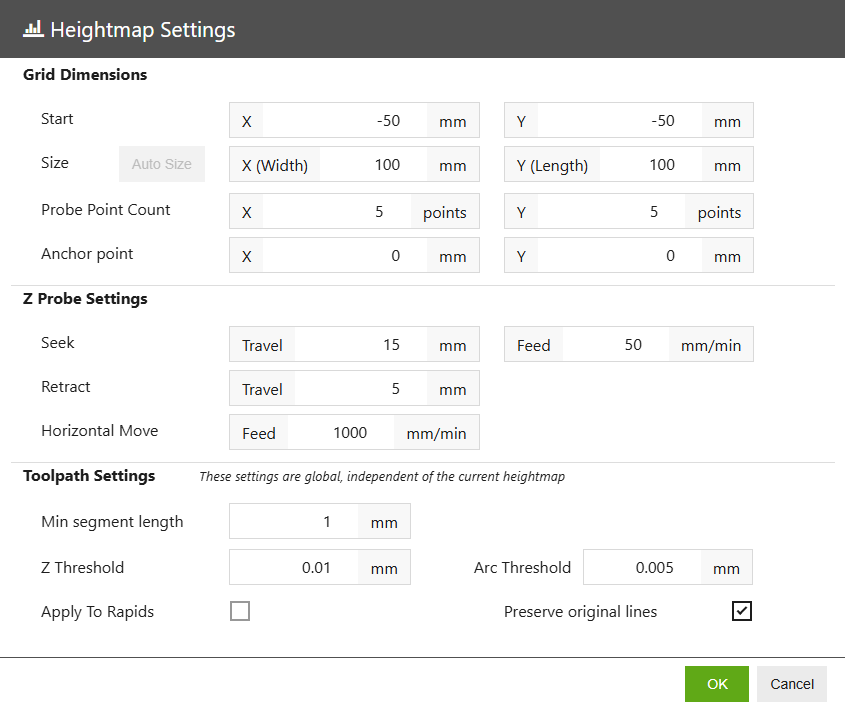
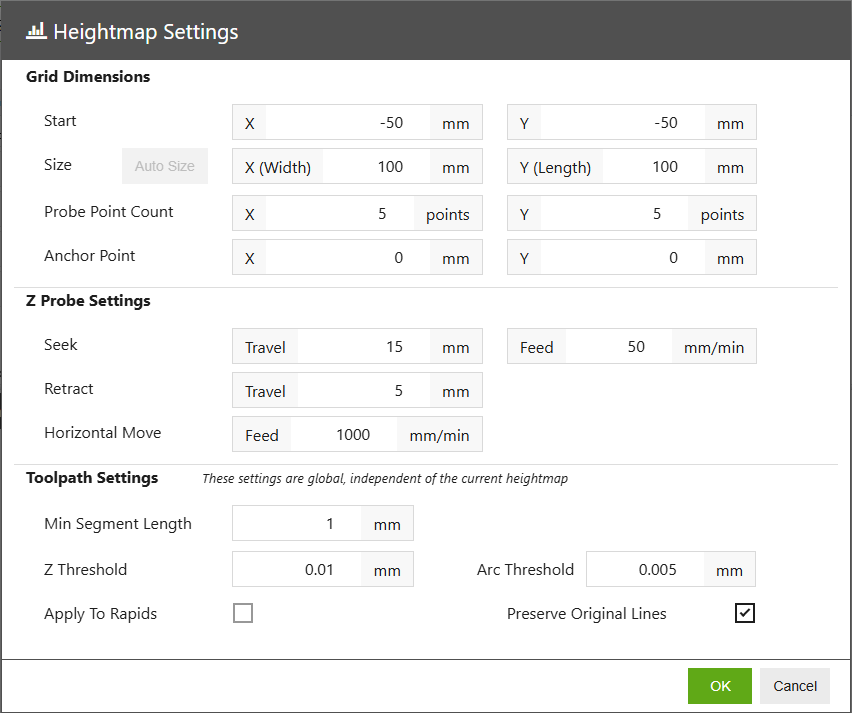
Update heightmap docs

diff --git a/app/wizards/heightmap/heightmap.js b/app/wizards/heightmap/heightmap.js
@@ -99,7 +99,7 @@ const heightmapSettingsDlg = `
 
 <div class="row mb-3">
   <label class="cell-sm-3 pt-1" style="padding-left:30px;" title="The anchor point is the location where the initial Z0 measurement will be taken.
-It has to match the Z0 of the G-code.">Anchor point</label>
+It has to match the Z0 of the G-code.">Anchor Point</label>
   <div class="cell-sm-4">
     <input id="heightmapAX" type="number" style="text-align:right;" data-role="input" data-prepend="X" data-append="mm" data-clear-button="false" data-editable="true"  onchange="heightmapSettingChange()"/>
   </div>
@@ -147,7 +147,7 @@ Smaller numbers will produce more accurate results, but will generate larger and
 </div>
 
 <div class="row mb-2">
-  <label class="cell-sm-3" style="padding-top:6px; padding-left:30px;" title="Minimum segment length for linear and arc segments">Min segment length</label>
+  <label class="cell-sm-3" style="padding-top:6px; padding-left:30px;" title="Minimum segment length for linear and arc segments">Min Segment Length</label>
   <div class="cell-sm-3">
     <input id="heightmapMinLength" type="number" style="text-align:right;" data-role="input" data-append="mm" data-clear-button="false" data-editable="true" />
   </div>
@@ -171,7 +171,7 @@ This could be useful for very uneven heightmaps.">Apply To Rapids</label>
     <input id="heightmapRapids" type="checkbox" data-role="checkbox" data-style="2"/>
   </div>
   <label class="cell-sm-3" style="margin-bottom:0; padding-top:6px;" title="When this is checked, the original G-code lines will be preserved as comments and the changes can be undone.
-You can uncheck it for large files to reduce the final size.">Preserve original lines</label>
+You can uncheck it for large files to reduce the final size.">Preserve Original Lines</label>
   <div class="cell-sm-1" style="padding-left:30px;">
     <input id="heightmapAllowRevert" type="checkbox" data-role="checkbox" data-style="2"/>
   </div>

diff --git a/UsefulMacros/Heightmap.js b/UsefulMacros/Heightmap.js
@@ -147,7 +147,7 @@ const g_HeightmapSettingsDlg = `
 
 <div class="row mb-3">
   <label class="cell-sm-3 pt-1" style="padding-left:30px;" title="The anchor point is the location where the initial Z0 measurement will be taken.
-It has to match the Z0 of the G-code.">Anchor point</label>
+It has to match the Z0 of the G-code.">Anchor Point</label>
   <div class="cell-sm-4">
     <input id="heightmapAX" type="number" style="text-align:right;" data-role="input" data-prepend="X" data-append="mm" data-clear-button="false" data-editable="true"  onchange="OnSettingChange()"/>
   </div>
@@ -195,7 +195,7 @@ Smaller numbers will produce more accurate results, but will generate larger and
 </div>
 
 <div class="row mb-2">
-  <label class="cell-sm-3" style="padding-top:6px; padding-left:30px;" title="Minimum segment length for linear and arc segments">Min segment length</label>
+  <label class="cell-sm-3" style="padding-top:6px; padding-left:30px;" title="Minimum segment length for linear and arc segments">Min Segment Length</label>
   <div class="cell-sm-3">
     <input id="heightmapMinLength" type="number" style="text-align:right;" data-role="input" data-append="mm" data-clear-button="false" data-editable="true" />
   </div>
@@ -219,7 +219,7 @@ This could be useful for very uneven heightmaps.">Apply To Rapids</label>
     <input id="heightmapRapids" type="checkbox" data-role="checkbox" data-style="2"/>
   </div>
   <label class="cell-sm-3" style="margin-bottom:0; padding-top:6px;" title="When this is checked, the original G-code lines will be preserved as comments and the changes can be undone.
-You can uncheck it for large files to reduce the final size.">Preserve original lines</label>
+You can uncheck it for large files to reduce the final size.">Preserve Original Lines</label>
   <div class="cell-sm-1" style="padding-left:30px;">
     <input id="heightmapAllowRevert" type="checkbox" data-role="checkbox" data-style="2"/>
   </div>
